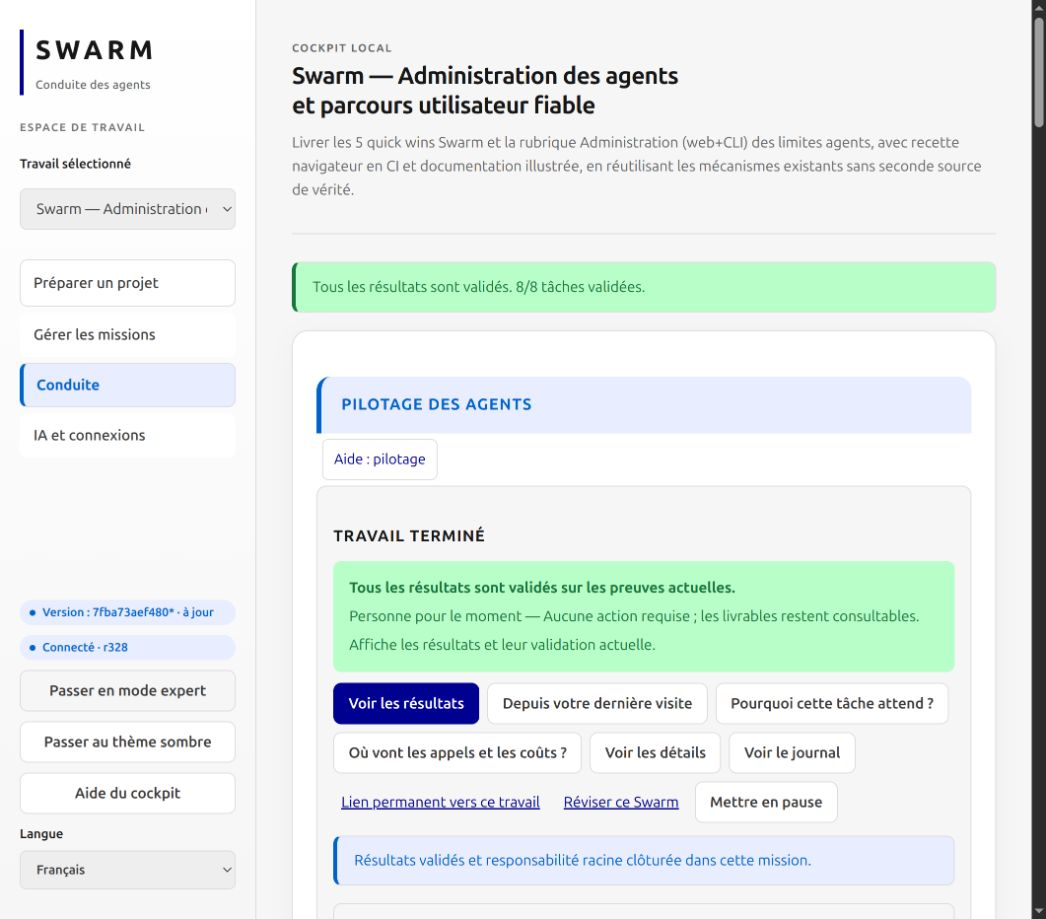
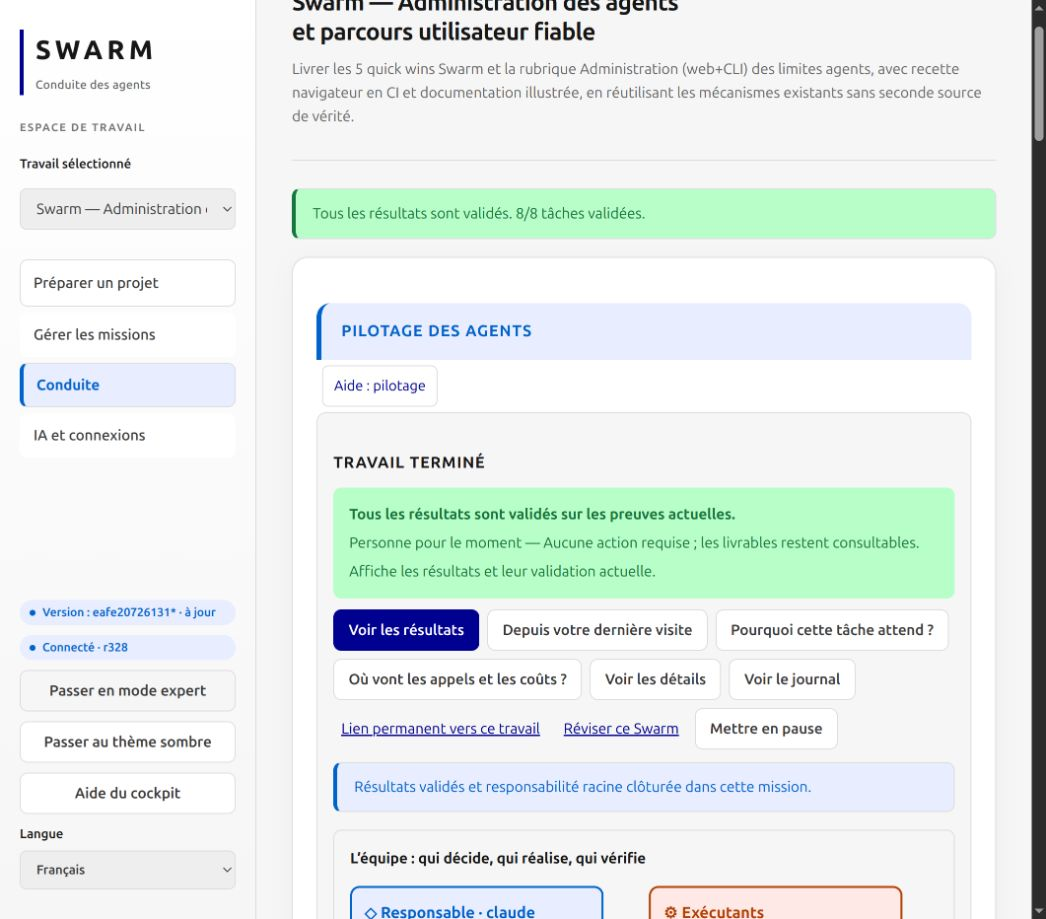
Refresh bilingual documentation with clear method names and current screenshots

diff --git a/INSTALL.md b/INSTALL.md
@@ -201,7 +201,7 @@ Le script compile dans un fichier temporaire du dossier cible, puis remplace le 
 | Fournisseur absent | Installation dans le conteneur, PATH et `.swarm/providers.json` |
 | Agent installé mais appel refusé | Authentification, variables autorisées et capacités de sandbox |
 | Ancienne mission avec chemins invalides | Adapter les profils vers `/workspace` sans lancer deux serveurs sur la même base |
-| Méthode APEX, KS ou PDCA absente | Installer les ressources de méthode dans le projet piloté, voir [les limites](docs/migration/README.md) |
+| Méthode de préparation indisponible | Vérifier la racine utilisée par Swarm et les ressources de méthode de ce projet ; voir le [guide des méthodes](docs/AGENT-METHODS.md). Installer le binaire seul ne copie pas ces ressources dans un autre projet. |
 
 Le Dockerfile compile les sources présentes localement. Il n’existe pas ici de promesse d’image publique préconstruite ni de compatibilité universelle avec les fournisseurs.
 
@@ -244,13 +244,14 @@ de certaines migrations ne remplacent pas cette sauvegarde complète.
 
 Capture réelle du parcours français : mission Administration lancée depuis les écrans, le 29 septembre 2026. Le lancement ne prouve pas la réussite des huit tâches ; les résultats restent à examiner.
 
-### Trois états à ne pas confondre
+### Quatre états à ne pas confondre
 
 | État | Ce que vous voyez | Ce que cela prouve | Capture |
 | --- | --- | --- | --- |
 | Formulaire rempli | Valeurs saisies, aperçu « valeurs actuelles » avant confirmation | Rien n’est écrit : la révision n’a pas changé | `admin-fr-etat.png`, `admin-fr-sombre.png` |
 | Configuration enregistrée | Révision 1 dans la portée et dans l’historique, auteur et motif | Les valeurs seront utilisées par les **prochains départs** | `admin-saved-fr-etat.png`, `admin-saved-fr-sombre.png` |
 | Lancement effectif | Tâche en cours, tentative active dans le pilotage | Un agent a démarré ; ni résultat, ni acceptation | `mission-lancee-fr.png` |
+| Mission clôturée | Tous les résultats validés sur leurs preuves et responsabilité racine clôturée | Les résultats requis ont été acceptés ; ce n’est pas la seule fin des processus | [Capture du 1er octobre](docs/screenshots/mission-complete-fr.png) |
 
 **Point de vigilance :** le parcours actuel comporte une autorisation de l’équipe, puis un lancement dans le pilotage. Si aucune tâche ne démarre, consultez le motif affiché avant toute nouvelle tentative.
 
@@ -343,3 +344,49 @@ Observations réelles du 29 septembre 2026 (mission Administration pilotée depu
 | Le bouton « Soumettre le rapport » bloquait la revue | Défaut du moteur corrigé ; la réparation passe par le même bouton, sans modifier la base à la main. |
 
 Ne modifiez jamais directement `.swarm/state.db` pour contourner une erreur.
+
+## Choisir une méthode après installation
+
+Dans **Préparer avec l’IA**, choisissez une méthode avec son nom d’usage :
+
+- **Analyse et planification** : clarifier le besoin et proposer un plan.
+- **Parcours guidé — préparer une évolution** : cadrer le changement, ses critères et ses tâches.
+- **Examiner et améliorer — préparer l’examen** : définir les risques et les contrôles.
+- **Diagnostiquer et corriger un problème** : préparer le diagnostic à partir des faits connus.
+
+La préparation ne réalise aucune correction et ne lance aucun agent. Les méthodes
+**Construire la spécification** et **Examiner la spécification** couvrent la
+rédaction du besoin et la recherche des omissions dans les sessions natives ;
+elles ne sont pas deux boutons supplémentaires de ce menu.
+
+Vérifiez le catalogue de votre projet depuis le même emplacement qu’au lancement :
+
+```sh
+swarm --root /chemin/du/projet --json prepare methods
+```
+
+Chaque méthode expose sa disponibilité. Le binaire contient le cadrage des rôles
+pour l’exécution ; les méthodes de **préparation** sont lues dans le projet piloté.
+En Docker, cette racine est `/workspace`. Ne confondez pas un fournisseur installé,
+une méthode disponible et un plan autorisé. Voir le [catalogue des méthodes](docs/AGENT-METHODS.md).
+
+## Reconnaître le résultat après le lancement
+
+![Résultat de la mission réelle : huit résultats validés](docs/screenshots/mission-complete-fr.png)
+
+*Capture du 1er octobre 2026, après clôture de la mission Administration avec
+interventions humaines. Elle complète la capture historique de lancement du
+29 septembre ; elle ne constitue pas une nouvelle recette Docker.*
+
+![Organisation actuelle et flèches des dépendances](docs/screenshots/mission-graph-current-fr.png)
+
+*Orchestrateur à gauche, tâches au centre et vérificateur à droite. Les traits
+pleins représentent les dépendances ; les pointillés représentent les
+responsabilités et les remises au vérificateur. La vue d’ensemble réduit le zoom.*
+
+Les captures des formulaires d’Administration datées du 30 septembre restent des
+recettes isolées : elles prouvent les états indiqués dans leurs légendes. Les
+nouvelles captures de clôture montrent une autre étape du même parcours ; elles
+ne transforment pas ces tests isolés en preuve de succès de tous les fournisseurs.
+
+Pour une reprise ou un conflit de révision, consultez les [conditions du moteur](docs/ENGINE-RECOVERY.md).

diff --git a/README.en.md b/README.en.md
@@ -67,13 +67,25 @@ reproduces every part of Cursor's final architecture.
 
 ## See the interface
 
-These screenshots were captured on 29 September 2026 with demonstration data and no AI calls. The manual mission contains three unconfigured tasks; missing-role warnings are expected. This is not a completed autonomous run.
-They illustrate the French interface; choose English from the language selector.
+Actual application captures from **October 1, 2026**, showing an eight-task mission closed with human decisions. This is not evidence of unattended autonomy. User-authored task names retain their original French language.
 
-![Preparation](docs/screenshots/en/preparation.png)
-![Unconfigured tasks and dependency arrows](docs/screenshots/en/agents-horizontal.png)
-![Vertical graph](docs/screenshots/en/agents-vertical.png)
-![Detailed agent view](docs/screenshots/en/agent-detail.png)
+### Understand the current state
+
+The summary states what is happening, who acts and what comes next. All eight results here are validated against current evidence, with deliverables and reviews still accessible.
+
+![Current mission: 8/8 results validated](docs/screenshots/en/mission-complete-en.png)
+
+### See the team and dependencies
+
+The orchestrator is on the left, workers in the middle and the independent reviewer on the right. **Solid arrows** connect prerequisites to dependent tasks; **dotted arrows** show responsibilities and reviewer handoffs.
+
+![Current graph with orchestrator, workers, reviewer and arrows](docs/screenshots/en/mission-graph-current-en.png)
+
+[Open the graph at full size](docs/screenshots/en/mission-graph-current-en.png)
+
+Horizontal and vertical layouts, detail levels, filters and branch folding change the view without removing tasks. “Why is this task waiting?” explains prerequisites; “Where do calls and costs go?” separates observed consumption.
+
+Preparation turns needs into criteria, tasks and dependencies. Adopting a plan does not launch agents: check roles, connections, workspaces and limits before authorizing execution. See the [illustrated user guide](docs/en/USER-GUIDE.md) and [installation screenshots](docs/en/INSTALL.md).
 
 ## Install
 
@@ -117,7 +129,7 @@ tests do not qualify a real provider's authentication, permissions or results.
 
 Data is local under the controlled project's `.swarm/`. Keep this directory,
 authentication and session links private. This repository supplies nine
-[working methods](docs/en/AGENT-METHODS.md), including planning, PDCA audit,
+[working methods](docs/en/AGENT-METHODS.md), including planning, system examination and improvement,
 debugging, review and lessons learned. When controlling another project, check
 which method resources are available in that project.
 
@@ -127,7 +139,7 @@ which method resources are available in that project.
 - [English installation guide](docs/en/INSTALL.md)
 - [Authorize recovery and supply candidate sources to the reviewer](docs/en/ATTEMPT-RECOVERY.md)
 - [Storage diagnosis and exhausted attempts](docs/en/RUNTIME-RECOVERY.md)
-- [Codex and Claude methods: APEX, PDCA, review and verification](docs/en/AGENT-METHODS.md)
+- [Methods: requirements, specifications, planning, audit, diagnosis and verification](docs/en/AGENT-METHODS.md)
 - [Agent reports, evidence delivery and linked decisions](docs/en/AGENT-COMMUNICATION.md)
 - [English interface validation](docs/en/I18N-VALIDATION.md)
 - [Technical reference](docs/en/REFERENCE.md)
@@ -162,3 +174,21 @@ root responsibility. Deliverables, reviews and costs remain accessible.
 ![Closed mission in the cockpit](docs/screenshots/en/mission-complete-en.png)
 
 *Actual 8/8 recipe with human interventions. The user-authored title remains in French. See the [user guide](docs/en/USER-GUIDE.md#read-counters-and-recognize-completion) and [engine recovery](docs/en/ENGINE-RECOVERY.md).*
+
+## Working methods
+
+Methods provide a shared approach with criteria and evidence; executable engine rules remain authoritative.
+
+| Need | Method |
+| --- | --- |
+| Turn a need into a verified change | Guided change workflow |
+| Examine a system and address authorized findings | Examine and improve |
+| Define expected outcomes and acceptance criteria | Build the specification |
+| Find omissions and contradictions before execution | Examine the specification |
+| Find actionable implementation defects | Review the code |
+| Reproduce a problem and identify its cause | Diagnose and fix |
+| Recheck the affected flow after a correction | Verify the fix |
+| Recover a blocked plan while retaining history | Replan |
+| Explain outcomes and prioritize improvements | Lessons learned |
+
+The specification methods cover both requirements writing and plan examination. See the [method guide](docs/en/AGENT-METHODS.md) for actual preparation choices and native-session commands; not every method is a web button.

diff --git a/docs/en/INSTALL.md b/docs/en/INSTALL.md
@@ -182,13 +182,14 @@ Automatic backups from some migrations do not replace a complete backup.
 
 Actual French-interface capture, September 29, 2026: the Administration mission was launched through the web screens. This demonstrates launch, not completion of all eight tasks. Results still require review.
 
-### Three states not to confuse
+### Four states not to confuse
 
 | State | What you see | What it proves | Capture |
 | --- | --- | --- | --- |
 | Completed form | Entered values and a "current values" preview before confirmation | Nothing is written: the revision is unchanged | `admin-en-etat.png`, `admin-en-sombre.png` |
 | Saved configuration | Revision 1 in the scope and in the history, with author and reason | Values apply to **future starts** | `admin-saved-en-etat.png`, `admin-saved-en-sombre.png` |
 | Actual launch | Task in progress, active attempt on the dashboard | An agent started; no result, no acceptance | `mission-lancee-fr.png` (French UI) |
+| Closed mission | All results validated against current evidence, root responsibility closed | Required results were accepted; this is more than process termination | [October 1 capture](../screenshots/en/mission-complete-en.png) |
 
 **Current workflow:** team authorization and dashboard launch are separate steps. If nothing starts, read the reported cause before retrying.
 
@@ -281,3 +282,48 @@ Actual observations from September 29, 2026 (Administration mission driven from 
 | "Submit report" button blocked the review | Engine defect, fixed; repair goes through the same button, without editing the database by hand. |
 
 Never edit `.swarm/state.db` directly to work around an error.
+
+## Choose a method after installation
+
+In **Prepare with AI**, use the methods by their user-facing purpose:
+
+- **Analysis and planning**: clarify requirements and propose a plan.
+- **Guided workflow — prepare an improvement**: define a change, its criteria and tasks.
+- **Examine and improve — prepare the assessment**: prepare the examination scope, risks and checks.
+- **Diagnose and fix a problem**: prepare a diagnosis from known facts.
+
+Preparation performs no correction and launches no agent. **Build the
+specification** and **Examine the specification** support requirements writing
+and gap analysis in native sessions; they are not two extra preparation buttons.
+
+Check the catalogue in the same project root used by your server:
+
+```sh
+swarm --root /path/to/project --json prepare methods
+```
+
+Each method reports its availability. Execution-role guidance is embedded in the
+binary; **preparation** methods are read from the controlled project. In Docker,
+that root is `/workspace`. Installing an AI provider, making a method available
+and authorizing a plan are distinct steps. Installing the binary alone does not
+copy preparation resources to another project. See the [method catalogue](AGENT-METHODS.md).
+
+## Recognize the result after launch
+
+![Actual mission result: eight validated results](../screenshots/en/mission-complete-en.png)
+
+*October 1, 2026 capture after closing the Administration mission with human
+interventions. It supplements the historical September 29 launch capture; it
+is not a new Docker installation test. User-authored mission names remain in French.*
+
+![Current organization and dependency arrows](../screenshots/en/mission-graph-current-en.png)
+
+*Orchestrator on the left, tasks in the middle and reviewer on the right. Solid
+arrows show dependencies; dotted arrows show responsibilities and reviewer
+handoffs. The overview reduces zoom to show the whole graph.*
+
+The dated September 30 Administration form captures remain isolated tests of
+the states described in their captions. The new completion captures show a
+later workflow stage; they do not qualify every provider's operation.
+
+For recovery or revision conflicts, see the [engine recovery conditions](ENGINE-RECOVERY.md).

diff --git a/docs/AGENT-METHODS.md b/docs/AGENT-METHODS.md
@@ -3,10 +3,17 @@
 [English](en/AGENT-METHODS.md) · [Guide utilisateur](../GUIDE-UTILISATEUR.md)
 
 Ce dépôt fournit **neuf méthodes** pour cadrer, réaliser, vérifier et améliorer
-Swarm. Elles reprennent les pratiques utiles des méthodes APEX et audit PDCA de
-LIA : critères explicites, décisions tracées, preuves observables, reprise bornée
-et retour d'expérience. Elles sont réécrites pour ce dépôt, sans dépendance à
-l'installation LIA, ses hooks, ses scripts de déploiement ou ses permissions.
+Swarm : parcours guidé, examen et amélioration, construction et examen de
+spécification, revue du code, diagnostic, vérification, replanification et retour
+d’expérience. Elles partagent des critères explicites, des décisions tracées et
+des preuves observables, sans dépendance à une autre installation.
+
+## Catalogue lisible
+
+Les noms destinés aux utilisateurs sont ceux du [catalogue du README](../README.md#communication-et-méthodes). Les méthodes de spécification couvrent la rédaction du besoin et l’examen du plan. Les identifiants historiques ci-dessous servent uniquement aux commandes natives et à la compatibilité ; ils ne sont pas les noms à afficher dans l’interface.
+
+<details>
+<summary>Commandes natives et identifiants techniques</summary>
 
 ## Démarrer
 
@@ -39,6 +46,8 @@ Dans Claude, remplacez `$` par `/`. Les indications `--plan-only`, `--resume`,
 options de l'exécutable `swarm`. L'audit est en lecture seule par défaut.
 Les méthodes répondent dans la langue de la demande.
 
+</details>
+
 ## Depuis l'interface Swarm
 
 Dans **Préparer avec l'IA**, la liste des méthodes existante utilise :
@@ -63,8 +72,7 @@ swarm --root "$PWD" --json prepare methods
 ```
 
 Chaque entrée indique `available` et une empreinte `sha256`. `audit_pdca` reste
-un alias de `audit-pdca` dans Swarm et `/audit_pdca` dans Claude. Les anciennes
-commandes `/ks-feature` et `/ks-plan` sont conservées.
+un alias de `audit-pdca` dans Swarm et `/audit_pdca` dans Claude. Des alias historiques restent acceptés pour les anciennes intégrations ; utilisez les méthodes de spécification pour les nouveaux parcours.
 
 La méthode de préparation est lue dans **la racine de projet utilisée par Swarm**. Installer le
 binaire seul ne copie pas cette configuration dans d'autres projets. En Docker,
@@ -79,9 +87,9 @@ par Codex ou Claude pour fournir ce cadrage.
 
 | Rôle | Méthodes incluses | Limites |
 | --- | --- | --- |
-| Planificateur et sous-planificateur | APEX, audit-pdca, spec-builder, spec-audit, replan, debug | PLAN et ACT ; sans outils ni modification de code |
-| Exécutant | APEX, audit-pdca, verify-fix, debug, modèles de rapport et de suivi | DO et CHECK dans le périmètre autorisé ; audit seul si demandé |
-| Vérificateur indépendant | audit-pdca, code-reviewer | CHECK sur les preuves fournies ; sans outils ni modification du candidat |
+| Planificateur et sous-planificateur | Parcours guidé, examen et amélioration, construction et examen de spécification, replanification, diagnostic | PLAN et ACT ; sans outils ni modification de code |
+| Exécutant | Parcours guidé, examen et amélioration, vérification, diagnostic, modèles de rapport et de suivi | DO et CHECK dans le périmètre autorisé ; audit seul si demandé |
+| Vérificateur indépendant | Examen et amélioration, revue du code | CHECK sur les preuves fournies ; sans outils ni modification du candidat |
 
 Le champ `workflow` conserve la version, le rôle, la liste des méthodes et leur
 empreinte SHA-256. Le moteur refuse un rôle inconnu ou un cadrage dépassant sa

diff --git a/docs/en/AGENT-METHODS.md b/docs/en/AGENT-METHODS.md
@@ -3,10 +3,17 @@
 [Français](../AGENT-METHODS.md) · [User guide](USER-GUIDE.md)
 
 This repository includes **nine methods** for specifying, implementing, reviewing
-and improving Swarm. They adapt LIA's APEX and PDCA practices: explicit criteria,
-traceable decisions, observable evidence, bounded recovery and retrospectives.
-They have been rewritten for this repository and require no LIA installation,
-deployment scripts, hooks or permission settings.
+and improving Swarm: guided change workflow, examination and improvement,
+specification writing and examination, code review, diagnosis, verification,
+replanning and lessons learned. They use explicit criteria, traceable decisions
+and observable evidence without requiring another installation.
+
+## Plain-language catalogue
+
+User-facing names follow the [README catalogue](../../README.en.md#working-methods). Specification methods cover both requirements writing and plan examination. Historical identifiers below are native commands and compatibility identifiers, not interface labels.
+
+<details>
+<summary>Native commands and technical identifiers</summary>
 
 ## Start here
 
@@ -38,6 +45,8 @@ For Claude, replace `$` with `/`. `--plan-only`, `--resume`, `--fix` and
 `--score-only` are instructions interpreted by the method, not additional `swarm`
 binary flags. Audits are read-only by default. Methods answer in the user's language.
 
+</details>
+
 ## In Swarm preparation
 
 The existing **Prepare with AI** method selector uses:
@@ -60,8 +69,7 @@ swarm --root "$PWD" --json prepare methods
 ```
 
 Each entry includes `available` and a `sha256` fingerprint. `audit_pdca` remains
-an alias for `audit-pdca` in Swarm, and `/audit_pdca` in Claude. The legacy
-`/ks-feature` and `/ks-plan` commands are also provided.
+an alias for `audit-pdca` in Swarm, and `/audit_pdca` in Claude. Historical aliases remain accepted for older integrations; use the specification methods for new workflows.
 
 Preparation methods are read from **Swarm's configured project root**. Installing only the
 binary does not copy this configuration into other projects. With Docker, the
@@ -74,9 +82,9 @@ to the provider. This does not depend on native skill discovery in Codex or Clau
 
 | Role | Included methods | Boundaries |
 | --- | --- | --- |
-| Planner and subplanner | APEX, audit-pdca, spec-builder, spec-audit, replan, debug | PLAN and ACT; no tools or code changes |
-| Worker | APEX, audit-pdca, verify-fix, debug, handoff and tracking templates | DO and CHECK within authorized scope; read-only for audit-only tasks |
-| Independent reviewer | audit-pdca, code-reviewer | CHECK on supplied evidence; no tools or candidate changes |
+| Planner and subplanner | Guided workflow, examination and improvement, specification writing and examination, replanning, diagnosis | PLAN and ACT; no tools or code changes |
+| Worker | Guided workflow, examination and improvement, verification, diagnosis, handoff and tracking templates | DO and CHECK within authorized scope; read-only for audit-only tasks |
+| Independent reviewer | Examination and improvement, code review | CHECK on supplied evidence; no tools or candidate changes |
 
 The `workflow` field records version, role, method names and SHA-256 digest. Unknown
 roles and oversized framing are rejected. Methods are **embedded at build time**:
